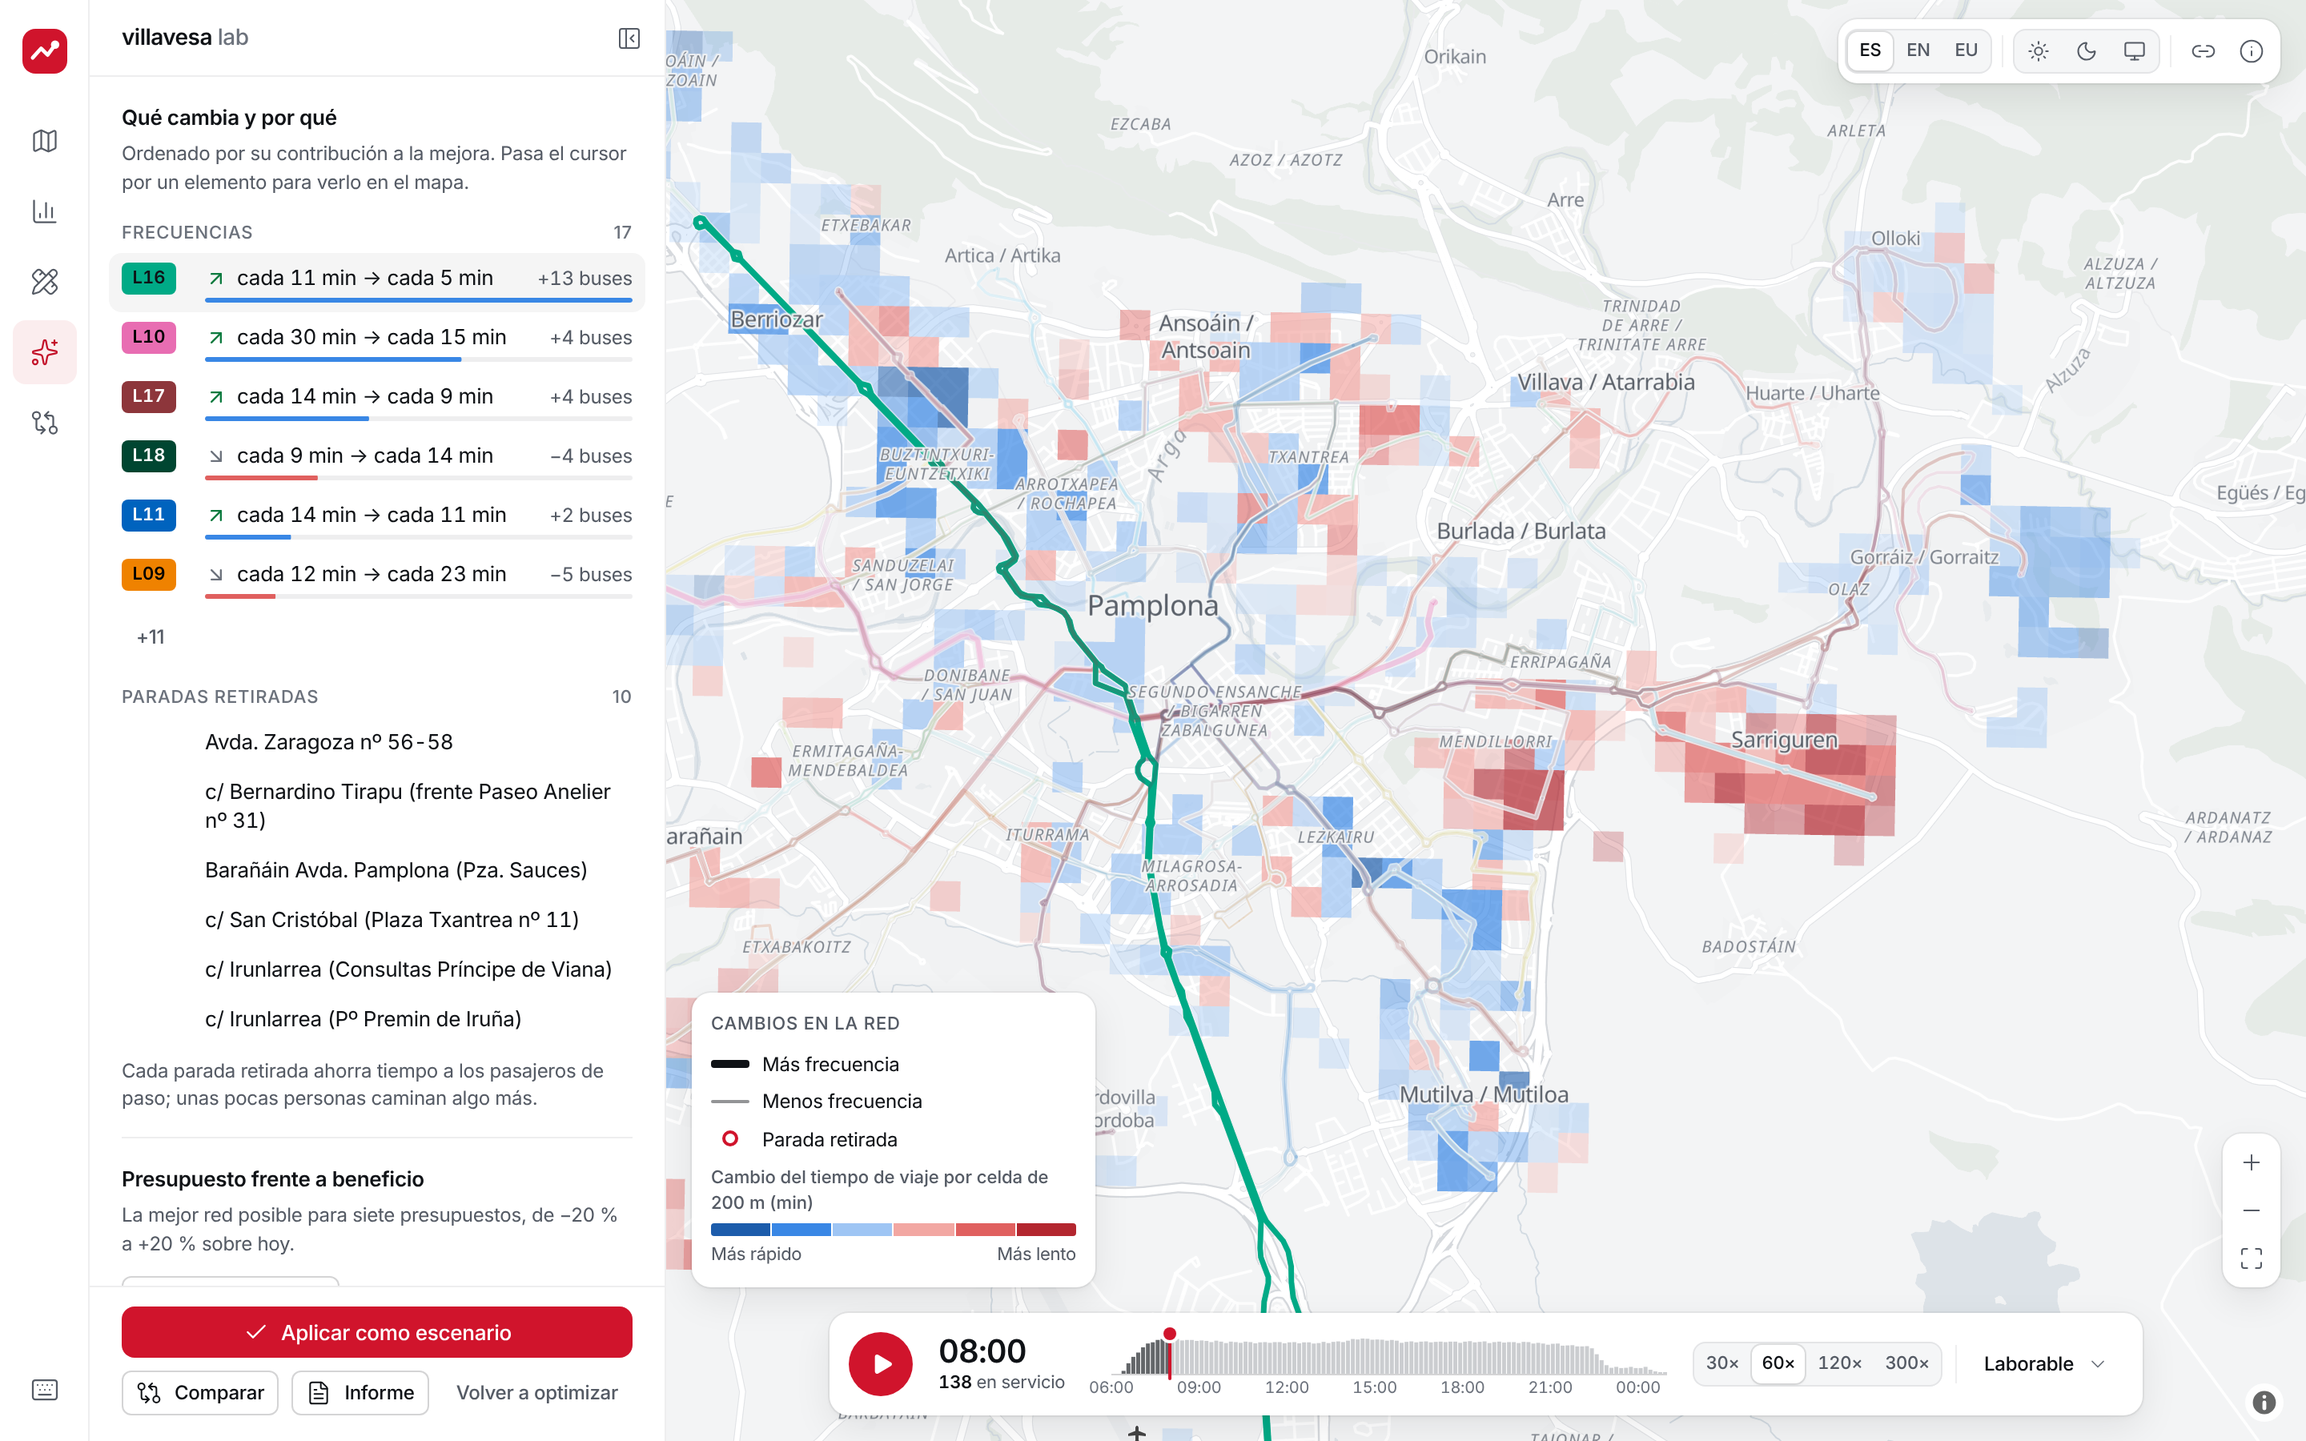
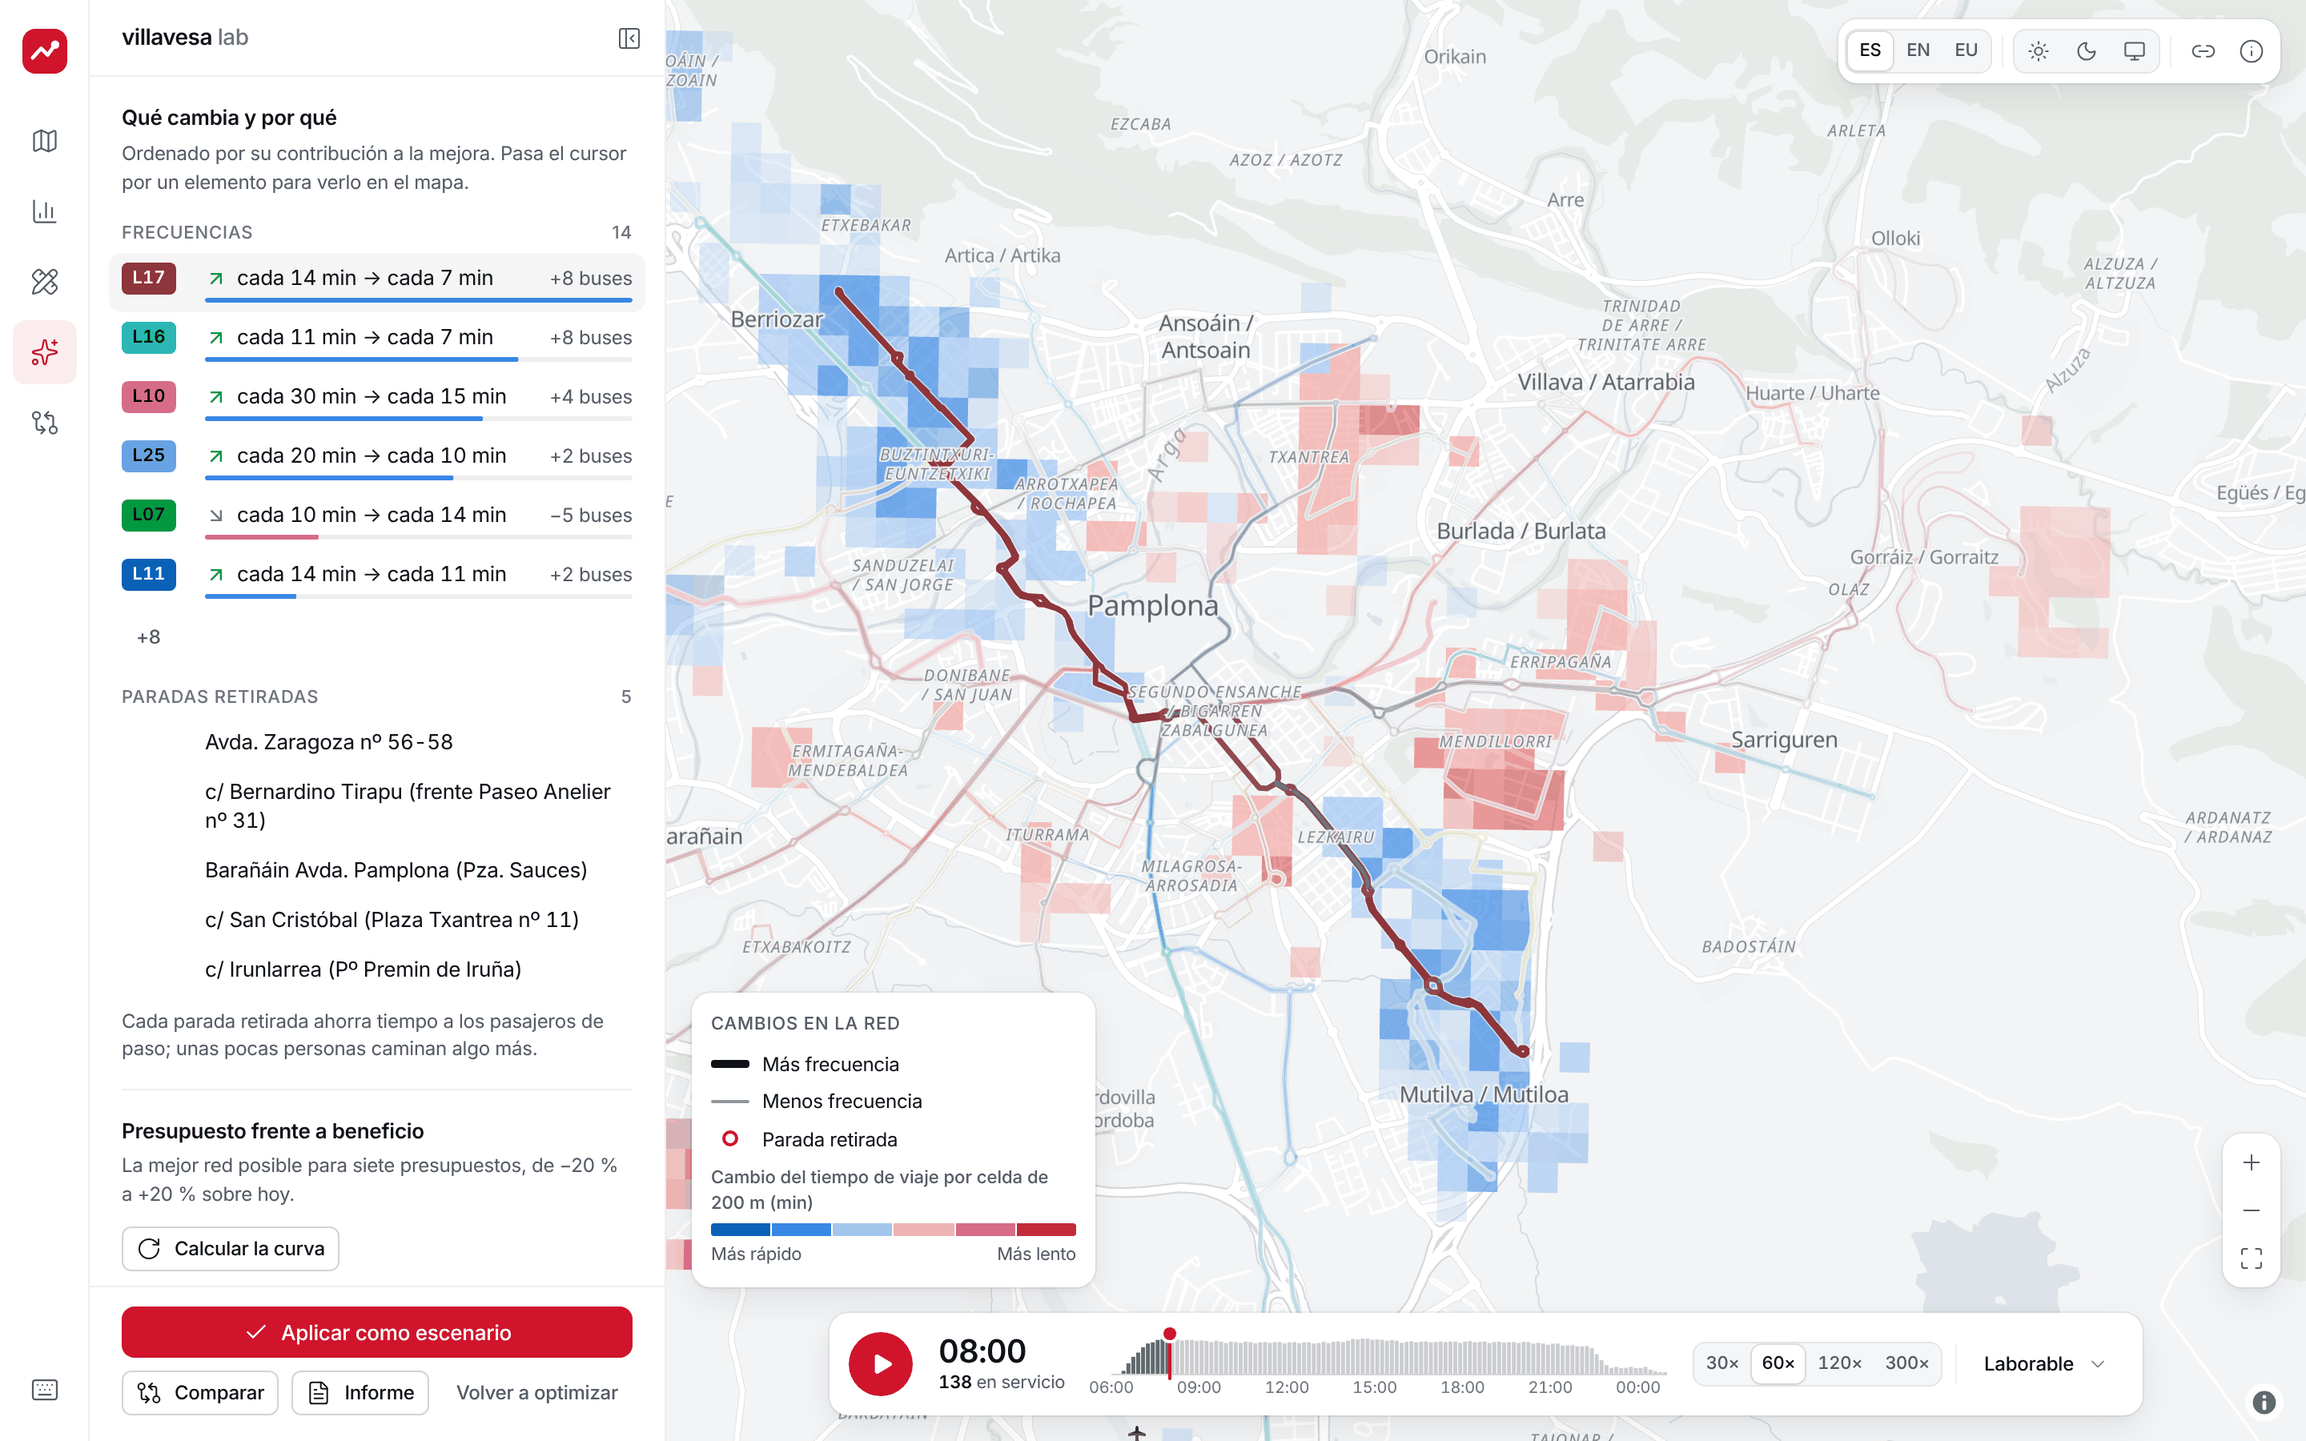
Make frequency edits monotone: keep existing departures, add or remove trips
Claude-Session: https://claude.ai/code/session_01JJH9X7imSqPQFHmDZnXhqr

diff --git a/web/e2e/app.spec.ts b/web/e2e/app.spec.ts
@@ -112,11 +112,15 @@ test('theme toggle switches to dark and back', async ({ page }) => {
   await expect(page.locator('html')).toHaveAttribute('data-theme', 'light');
 });
 
-test('other views show designed empty states; shortcuts dialog opens with ?', async ({ page }) => {
+test('optimizer and compare views open (compare with a designed empty state); shortcuts dialog opens with ?', async ({
+  page,
+}) => {
   await open(page);
   await page.getByTestId('nav-optimizer').click();
   await expect(page.getByTestId('view-optimizer')).toContainText('presupuesto');
-  await page.getByRole('button', { name: 'Explorar la red actual' }).click();
+  await page.getByTestId('nav-compare').click();
+  await expect(page.getByTestId('compare-empty')).toBeVisible();
+  await page.getByTestId('nav-network').click();
   await expect(page.getByTestId('line-list')).toBeVisible();
   await page.keyboard.press('?');
   await expect(page.getByTestId('shortcuts-dialog')).toBeVisible();

diff --git a/web/src/features/compare/Compare.module.css b/web/src/features/compare/Compare.module.css
@@ -249,7 +249,7 @@
   font-variant-numeric: tabular-nums;
 }
 .table th {
-  padding: 0 0 var(--space-1);
+  padding: 0 0 var(--space-1) var(--space-3);
   color: var(--text-tertiary);
   font-size: var(--text-11);
   font-weight: var(--weight-medium);

diff --git a/engine/src/vlab/scenario/apply.py b/engine/src/vlab/scenario/apply.py
@@ -10,6 +10,7 @@ from __future__ import annotations
 import itertools
 import math
 from dataclasses import dataclass, replace
+from typing import Any
 
 import numpy as np
 import numpy.typing as npt
@@ -247,27 +248,55 @@ def _rebuild(tt: Timetable, blocks: list[PatternBlock], changed: set[int]) -> Ti
 # ======================================================================= frequency
 
 
-def _resample_starts(
-    t: npt.NDArray[np.int64], n_new: int, lo: float = -math.inf, hi: float = math.inf
-) -> npt.NDArray[np.int64]:
-    """``n_new`` start times spread like the ``len(t)`` sorted old ones (same span and
-    time-of-day density), kept inside the period ``[lo, hi)``."""
+def _spread_pick(tied: npt.NDArray[np.bool_], pos: npt.NDArray[Any], k: int) -> int:
+    """Index of one of the ``tied`` candidates. With a regular timetable every gap
+    ties, so successive picks follow the golden-ratio sequence over the span to
+    spread changes across the day instead of piling them at the start."""
+    idx = np.flatnonzero(tied)
+    if len(idx) == 1:
+        return int(idx[0])
+    lo, hi = float(pos[idx[0]]), float(pos[idx[-1]])
+    target = lo + ((0.5 + 0.6180339887 * k) % 1.0) * (hi - lo)
+    return int(idx[int(np.argmin(np.abs(pos[idx].astype(np.float64) - target)))])
+
+
+def _thin_or_fill(
+    t: npt.NDArray[np.int64], n_new: int, lo: float, hi: float
+) -> tuple[npt.NDArray[np.int64], npt.NDArray[np.int64]]:
+    """Change the number of trips of a pattern while keeping existing departures.
+
+    Returns ``(keep, added)``: indices (into sorted ``t``) of the old trips that
+    stay, and the start times of the new trips. More service keeps every
+    existing trip and inserts new ones in the middle of the widest gaps; less
+    service removes the trips whose removal leaves the narrowest gaps. A
+    scenario with more trips is therefore a superset of the baseline (nobody
+    can lose a connection) and one with fewer is a subset.
+    """
     n = len(t)
-    if n_new <= 0 or n == 0:
-        return np.zeros(0, dtype=np.int64)
-    if n == 1:
-        half = 900.0
-        knots_y = np.array([max(t[0] - half, lo), t[0], min(t[0] + half, hi - 1)])
-        knots_x = np.array([0.0, 0.5, 1.0])
-    else:
-        h0, h1 = float(t[1] - t[0]), float(t[-1] - t[-2])
-        knots_x = np.concatenate([[0.0], (np.arange(n) + 0.5) / n, [1.0]])
-        knots_y = np.concatenate(
-            [[max(t[0] - h0 / 2, lo)], t.astype(np.float64), [min(t[-1] + h1 / 2, hi - 1)]]
-        )
-    q = (np.arange(n_new) + 0.5) / n_new
-    out: npt.NDArray[np.int64] = np.round(np.interp(q, knots_x, knots_y)).astype(np.int64)
-    return out
+    if n_new >= n:
+        times = [float(v) for v in t]
+        added: list[float] = []
+        for _ in range(n_new - n):
+            if len(times) == 1:
+                step = 900.0
+                cand = times[0] + step if times[0] + step < hi else times[0] - step
+            else:
+                gaps = np.diff(times)
+                k = _spread_pick(gaps >= gaps.max() - 1.0, np.asarray(times[:-1]), len(added))
+                cand = times[k] + gaps[k] / 2.0
+            cand = float(min(max(cand, lo), hi - 1)) if math.isfinite(hi - lo) else cand
+            added.append(cand)
+            times = sorted([*times, cand])
+        return np.arange(n, dtype=np.int64), np.round(np.asarray(added)).astype(np.int64)
+    keep = list(range(n))
+    while len(keep) > max(n_new, 0):
+        if len(keep) <= 2:
+            keep.pop()  # drop the later one
+            continue
+        tt = t[np.asarray(keep)]
+        merged = tt[2:] - tt[:-2]  # gap left if the interior trip is removed
+        keep.pop(_spread_pick(merged <= merged.min() + 1.0, tt[1:-1], n - len(keep)) + 1)
+    return np.asarray(keep, dtype=np.int64), np.zeros(0, dtype=np.int64)
 
 
 def _retime_group(
@@ -279,48 +308,52 @@ def _retime_group(
     hi: float = math.inf,
     prev_day: bool = False,
 ) -> None:
-    """Replace the selected own-day trips of the patterns of one direction by
-    ``n_new`` trips, in place.
+    """Change the number of selected trips of one pattern to ``n_new``, in place.
 
-    The start times are resampled over the same span with the same time-of-day
-    density; each new trip copies the running times of the old trip closest in
-    departure time, and a later bus never overtakes an earlier one of the same
-    pattern (it is held). Called once per pattern so that every branch keeps
-    its own regular spacing.
+    Existing trips are kept untouched (see :func:`_thin_or_fill`); each added
+    trip takes running times interpolated between its neighbours.
     """
-    old_t = np.concatenate(
-        [blocks[i].dep[sel, 0].astype(np.int64) for i, sel in zip(group, sels, strict=True)]
-    )
-    old_g = np.concatenate([np.full(int(sel.sum()), j) for j, sel in enumerate(sels)])
-    old_row = np.concatenate([np.flatnonzero(sel) for sel in sels])
-    order = np.argsort(old_t, kind="stable")
-    old_t, old_g, old_row = old_t[order], old_g[order], old_row[order]
-    new_t = _resample_starts(old_t, n_new, lo, hi)
-    near = np.clip(np.searchsorted(old_t, new_t), 0, len(old_t) - 1)
-    left = np.clip(near - 1, 0, len(old_t) - 1)
-    near = np.where(np.abs(old_t[left] - new_t) <= np.abs(old_t[near] - new_t), left, near)
-    for j, (i, sel) in enumerate(zip(group, sels, strict=True)):
+    for i, sel in zip(group, sels, strict=True):
         if not sel.any():
             continue
         b = blocks[i]
         arr, dep = b.arr.astype(np.int64), b.dep.astype(np.int64)
-        mine = old_g[near] == j
-        t = new_t[mine]
-        proto = old_row[near[mine]]
-        new_arr = t[:, None] + (arr[proto] - dep[proto, :1])
-        new_dep = t[:, None] + (dep[proto] - dep[proto, :1])
-        if len(t) > 1:
-            new_arr = np.maximum.accumulate(new_arr, axis=0)
-            new_dep = np.maximum.accumulate(np.maximum(new_dep, new_arr), axis=0)
-        keep = ~sel
+        rows = np.flatnonzero(sel)
+        order = np.argsort(dep[rows, 0], kind="stable")
+        rows = rows[order]
+        old_t = dep[rows, 0]
+        keep_idx, new_t = _thin_or_fill(old_t, n_new, lo, hi)
+        # running times of a new trip: interpolated between the existing trips just
+        # before and after it, so it can neither overtake nor be overtaken and no
+        # existing trip has to be touched
+        right = np.clip(np.searchsorted(old_t, new_t, side="right"), 0, len(old_t) - 1)
+        left = np.clip(right - 1, 0, len(old_t) - 1)
+        span = (old_t[right] - old_t[left]).astype(np.float64)
+        frac = np.divide(new_t - old_t[left], span, out=np.zeros(len(new_t)), where=span > 0).clip(
+            0.0, 1.0
+        )[:, None]
+        off_arr = arr[rows] - dep[rows, :1]
+        off_dep = dep[rows] - dep[rows, :1]
+        new_arr = new_t[:, None] + np.round(
+            (1 - frac) * off_arr[left] + frac * off_arr[right]
+        ).astype(np.int64)
+        new_dep = new_t[:, None] + np.round(
+            (1 - frac) * off_dep[left] + frac * off_dep[right]
+        ).astype(np.int64)
+        new_dep = np.maximum(new_dep, new_arr)
+        kept_rows = rows[keep_idx]
+        sel_arr = np.vstack([arr[kept_rows], new_arr])
+        sel_dep = np.vstack([dep[kept_rows], new_dep])
+        sel_src = np.concatenate([b.trip_source[kept_rows], np.full(len(new_t), -1, np.int32)])
+        other = ~sel
         blocks[i] = PatternBlock(
             b.info,
             b.stops,
-            np.vstack([arr[keep], new_arr]).astype(np.int32),
-            np.vstack([dep[keep], new_dep]).astype(np.int32),
+            np.vstack([arr[other], sel_arr]).astype(np.int32),
+            np.vstack([dep[other], sel_dep]).astype(np.int32),
             b.offsets,
-            np.concatenate([b.trip_source[keep], np.full(len(t), -1, np.int32)]),
-            np.concatenate([b.trip_prev_day[keep], np.full(len(t), prev_day, np.bool_)]),
+            np.concatenate([b.trip_source[other], sel_src]),
+            np.concatenate([b.trip_prev_day[other], np.full(len(sel_arr), prev_day, np.bool_)]),
         )
 
 
@@ -335,9 +368,10 @@ def _period_chunks(period: str) -> list[tuple[int, int]]:
 def _frequency(tt: Timetable, e: SetHeadway | ScaleFrequency, log: ChangeLog) -> Timetable:
     """Change a route's frequency in a period.
 
-    Trips of every pattern of the route that start in the period are replaced
-    by ``round(n * factor)`` trips per direction, spread over the same span
-    (see :func:`_retime_group`). For ``set_headway`` the factor is
+    The number of trips of the route starting in the period becomes
+    ``round(n * factor)`` per direction. Existing departures are kept: more
+    service inserts trips in the widest gaps, less service removes the trips
+    that leave the narrowest gaps (see :func:`_thin_or_fill`). For ``set_headway`` the factor is
     ``current mean headway / target`` (:func:`vlab.gtfs.stats.mean_headways`:
     busiest direction; peak 07-09 h; off-peak measured 10-13 h and applied
     outside the peak).

diff --git a/engine/tests/test_scenario_apply.py b/engine/tests/test_scenario_apply.py
@@ -486,3 +486,29 @@ def test_degenerate_new_route_is_rejected(model: Model) -> None:
                 ]
             ),
         )
+
+
+def test_more_frequency_is_a_superset_so_nobody_is_slower(
+    model: Model, base: Timetable, evaluator: Evaluator
+) -> None:
+    """Adding service keeps every existing departure: no zone pair can get slower."""
+    sn = apply(
+        model, "weekday", parse_edits([{"type": "set_headway", "route_id": "4", "headway": 240}])
+    )
+    tt = sn.state.timetable
+    for p in base.patterns_of_route("4"):
+        old = {tuple(row) for row in base.departures(p).tolist()}
+        key = base.patterns[p].key
+        new: set[tuple[int, ...]] = set()
+        for q in tt.patterns_of_route("4"):
+            if tt.patterns[q].key.split("~")[0] == key.split("~")[0]:
+                new |= {tuple(row) for row in tt.departures(q).tolist()}
+        assert old <= new
+    after = evaluator.evaluate(sn.state).tt
+    assert after is not None
+    assert (after <= evaluator.baseline_tt).all()
+    fewer = apply(
+        model, "weekday", parse_edits([{"type": "scale_frequency", "route_id": "4", "factor": 0.5}])
+    )
+    less = evaluator.evaluate(fewer.state).tt
+    assert less is not None and (less >= evaluator.baseline_tt).all()

diff --git a/docs/engine.md b/docs/engine.md
@@ -66,7 +66,7 @@ tables are rebuilt (~0.2 s).
 
 | Edit | Semantics |
 | --- | --- |
-| `set_headway`, `scale_frequency` | Trips starting in the period are replaced, pattern by pattern, by a new number of trips spread over the same span with the same time-of-day density; each new trip copies the running times of the nearest old trip. Branches and short-turn variants keep their share (largest remainder, at least one trip each). `set_headway` targets the **mean headway of the busiest direction** (period length / trips; peak 07-09 h, off-peak measured 10-13 h and applied outside the peak). |
+| `set_headway`, `scale_frequency` | The number of trips starting in the period changes, pattern by pattern, **keeping existing departures**: more service inserts trips in the middle of the widest gaps (with running times interpolated between its neighbours), less service removes the trips that leave the narrowest gaps. More service is therefore a superset of today's timetable — nobody loses a connection — and less service a subset. Branches and short-turn variants keep their share (largest remainder, at least one trip each). `set_headway` targets the **mean headway of the busiest direction** (period length / trips; peak 07-09 h, off-peak measured 10-13 h and applied outside the peak). |
 | `speed_up` | Running time between the given consecutive stops divided by the factor (1.0-2.0); dwell unchanged; downstream times shift earlier. |
 | `remove_stop` | The stop is dropped from every pattern (or one route); each removal saves 20 s downstream (deceleration + dwell + acceleration). |
 | `move_stop` | New coordinates; walking tables rebuilt; bus paths are not rerouted (warning beyond 300 m). |
@@ -74,9 +74,7 @@ tables are rebuilt (~0.2 s).
 | `remove_route` | All its trips disappear. |
 | `add_route` | Path snapped to the bus-drivable street graph (respecting one-ways) through the waypoints or stops; stops projected on it; run times at the network's mean commercial speed (12.3 km/h, which already includes dwell) unless given; regular headway over a default 06:30-22:30 span; optional reverse direction. A leg that cannot follow streets falls back to a straight segment with a warning. |
 
-Caveats: retiming changes exact departure times, so a few connections can get
-worse even when frequency rises (the model reports them as people losing
-access); cost for the year applies the scenario to every day type and skips
+Caveats: cost for the year applies the scenario to every day type and skips
 edits that do not apply on a day (e.g. a line that does not run on Sundays).
 
 ## Cost model (`vlab.cost`)
